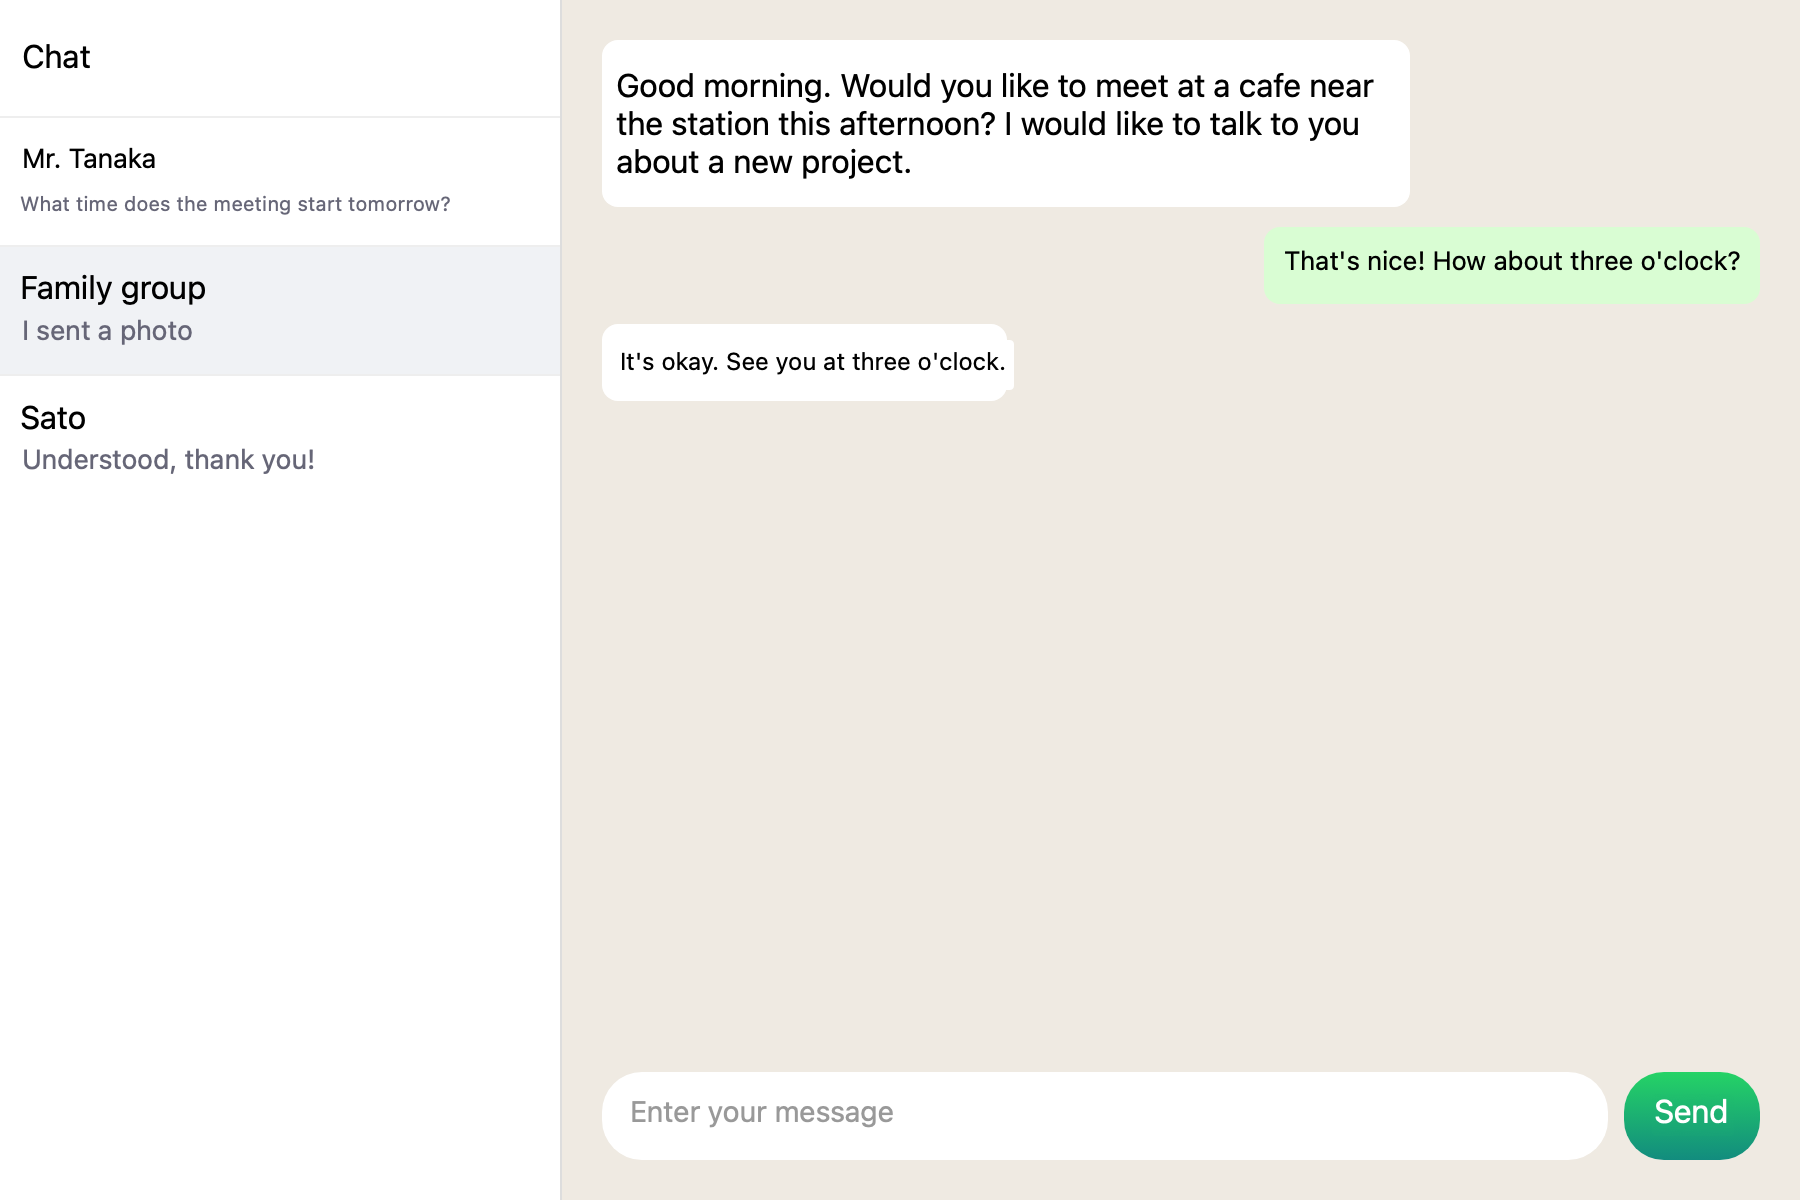
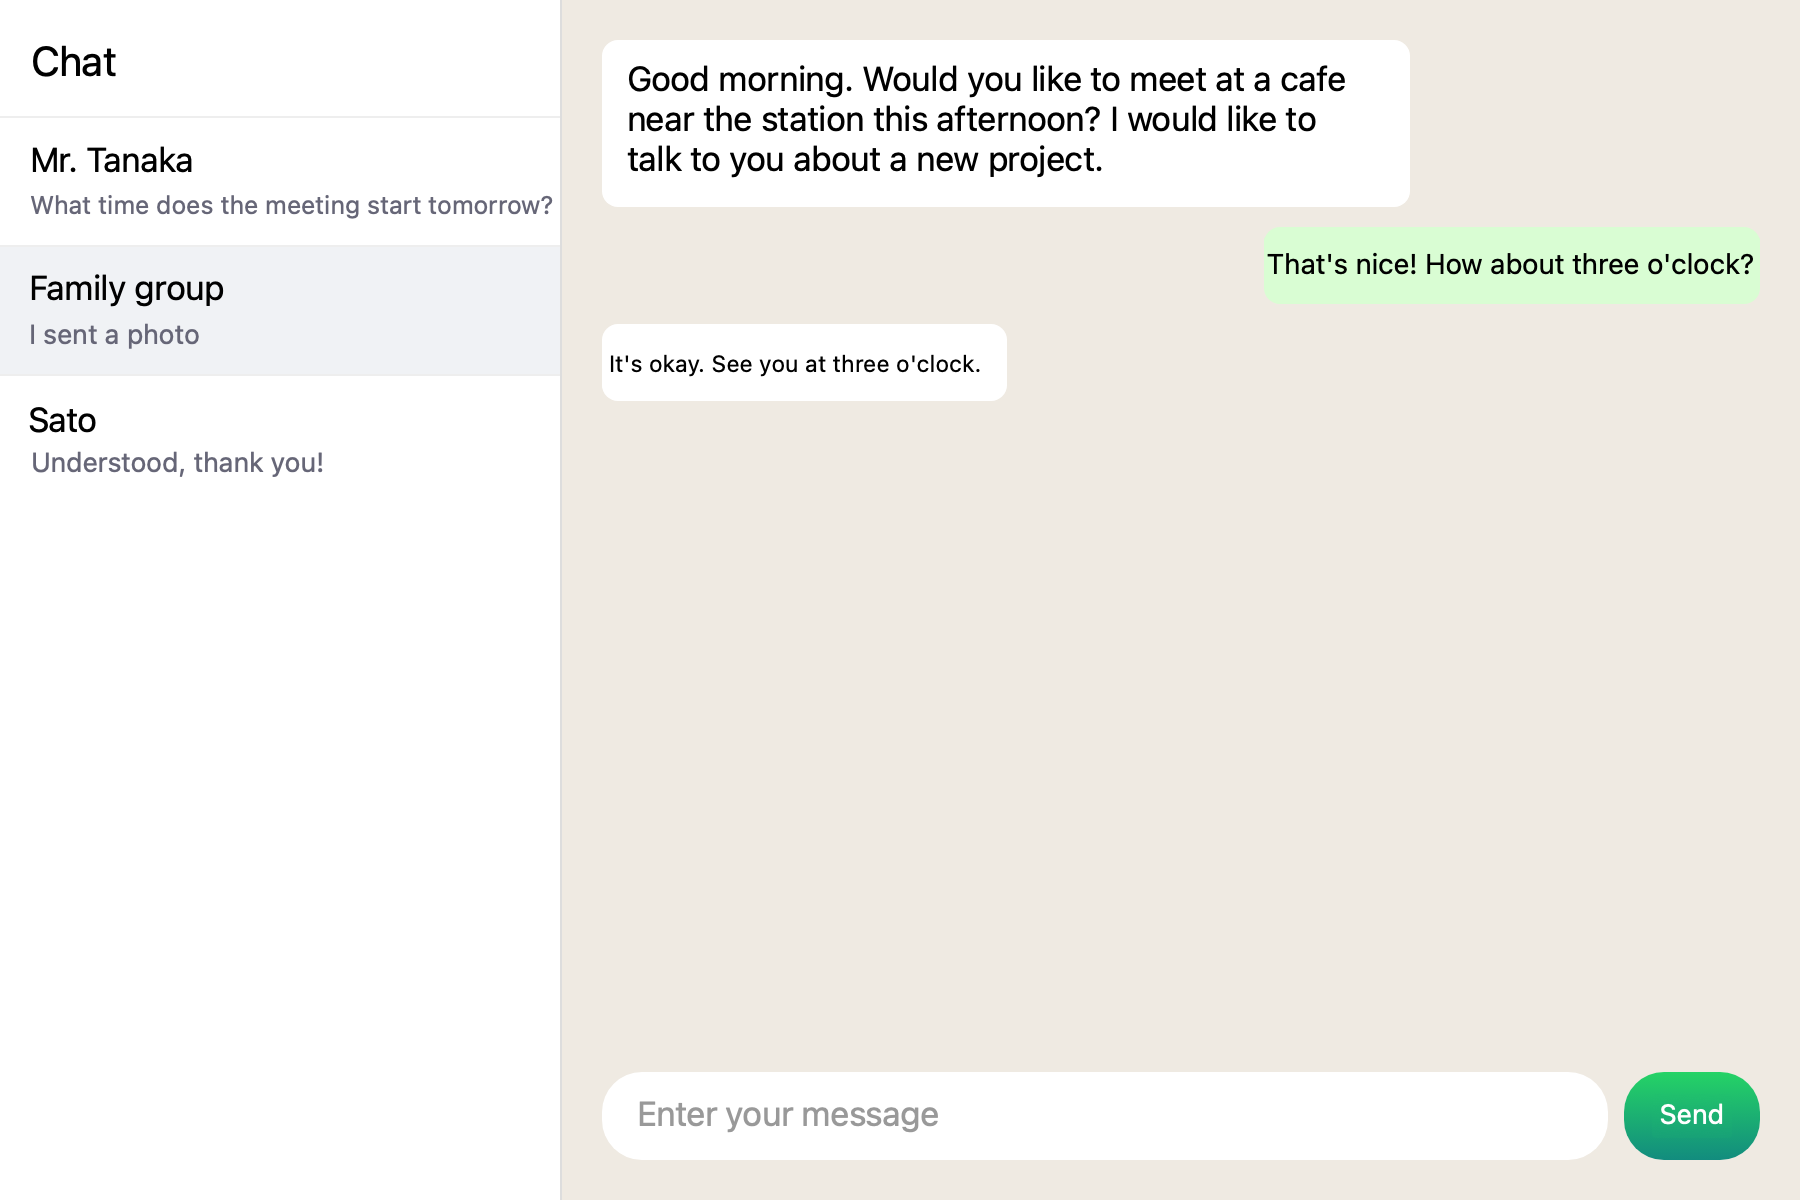
Spec the pixel measurements, alignment, weight and fitting rules; Hy-MT2 7B rated; fresh reference renders

diff --git a/shared/SPEC.md b/shared/SPEC.md
@@ -143,18 +143,32 @@ capture → text items (accessibility ∥ OCR) → filter → translate (batched
 - Sample at most ~40,000 pixels per item (stride).
 
 ### 2.9 Painting
-- Fill rect = text box grown by max(2, 0.18h) horizontally and max(1, 0.1h) vertically,
-  corner radius 2 (seamless) or 5 with a soft shadow and hairline border (card style).
-  Vertical gradient top→bottom when the background is a gradient.
-- Fit: start at the item's font (or estimated size), shrink in 0.5 pt steps down to 0.76×
-  while the wrapped text is taller than 1.06× the box; a single line may then widen up to
-  1.6× (centered items grow both ways) but only into free space (no other block's original
-  box, not past the screen edge); then shrink to max(7, 0.7×); if still too tall, grow
-  downward only into free space and at most 0.5× the box, then shrink to max(7, 0.55×)
-  and truncate. Center the text vertically.
-- One size per column: single-line blocks anchored on the same edge with the same original
-  size are capped at the group's median fitted size (larger ones come down to it; one long
-  item that had to shrink further keeps its own size).
+- **Measure from the pixels first** (per block, in the capture): background = most common
+  color (4 bits per channel buckets) of a 1–3 px ring around the text; ink = pixels farther
+  than max(0.16, 0.45 × |text − bg|) from the background *and* within max(0.2, 0.55 × |text − bg|)
+  of the text color (icons and controls next to a label don't count). Trim the box to the
+  first/last ink column, then extend it while ink continues (stop after a 0.33-line gap,
+  look at most 2 lines out). Free space: skip a fringe of ≤ 0.25 line of non-background
+  columns, then count background columns (distance < 0.07) up to max(1.5 × width, 8 lines);
+  hitting a non-background column means that side is bounded. Same up/down, at most half a line.
+- Gradient only when two opposite sides of the ring differ (> 0.05), each side is plain
+  (≥ 60% one color) and the other two sides sit between them; else one flat color.
+- **Alignment of single lines**: equal free space on both sides (within 30% when both bounded,
+  8% otherwise) → centered (buttons, tabs, dialog titles); shares its right edge (±2.5 pt)
+  with a block within 4 lines above/below but not its left edge → right; bounded right
+  within 0.6 line with > 3 lines free on the left → right; else as detected.
+- **Weight**: stroke = median length of horizontal ink runs ÷ line height. Relative to the
+  screen's median stroke: ≥ 1.75× bold, ≥ 1.45× semibold, else regular.
+- Fill rect = text area plus padding of max(2, 0.18h) sideways and max(1, 0.1h) vertically,
+  but padding only extends into measured free background (never over a border).
+  Corner radius 2 (seamless) or 5 with a soft shadow and hairline border (card style).
+- **Single line**: widen into measured free space first (up to 2.5×, on the side the
+  alignment allows, never onto another block's original box or off screen), then shrink in
+  0.5 pt steps to max(7, 0.6×), then truncate the tail. Never wrap. Draw one line of the
+  font's own height centered on the original line's midline.
+- **Paragraph**: shrink to max(7, 0.7×) while taller than 1.06× the box; then grow downward
+  only into free space (≤ 0.5× the box), shrink to max(7, 0.55×), truncate. Text starts at
+  the original first line.
 - Fade the overlay in over 120 ms, out over 100 ms. Never animate text that is being read.
 
 ### 2.10 Live mode
